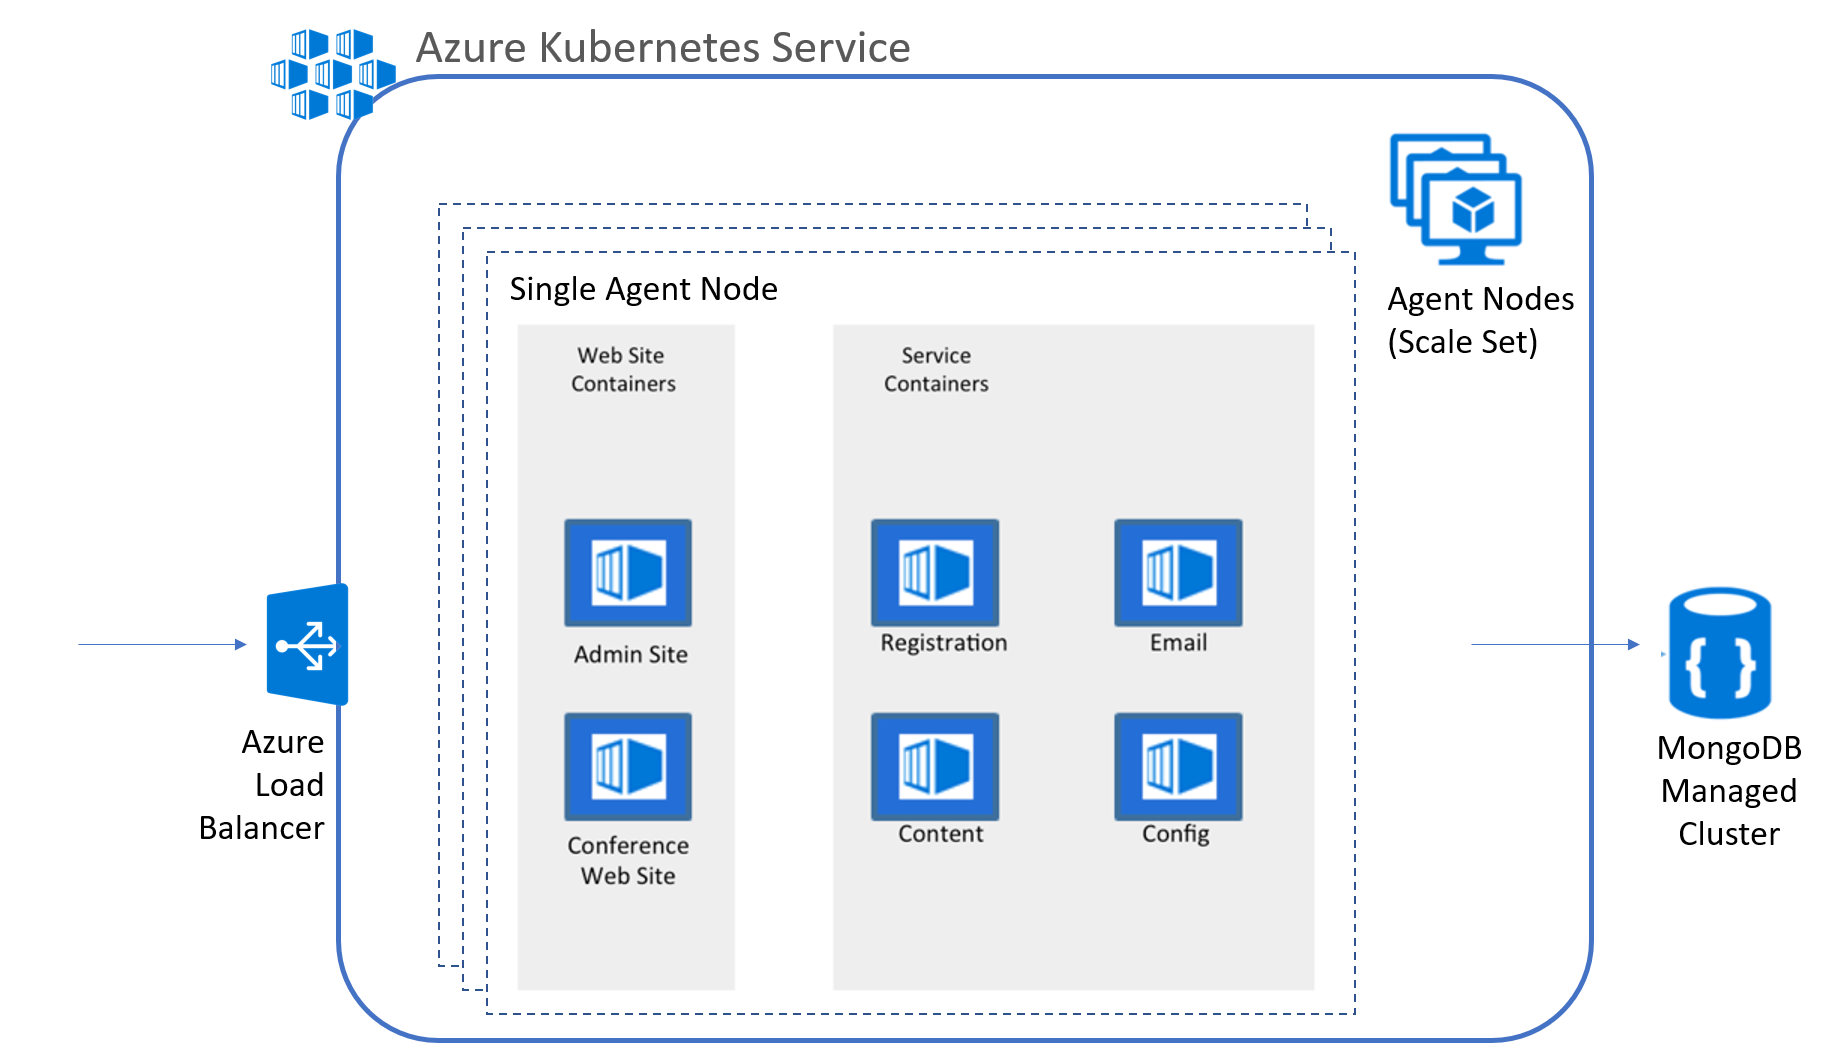
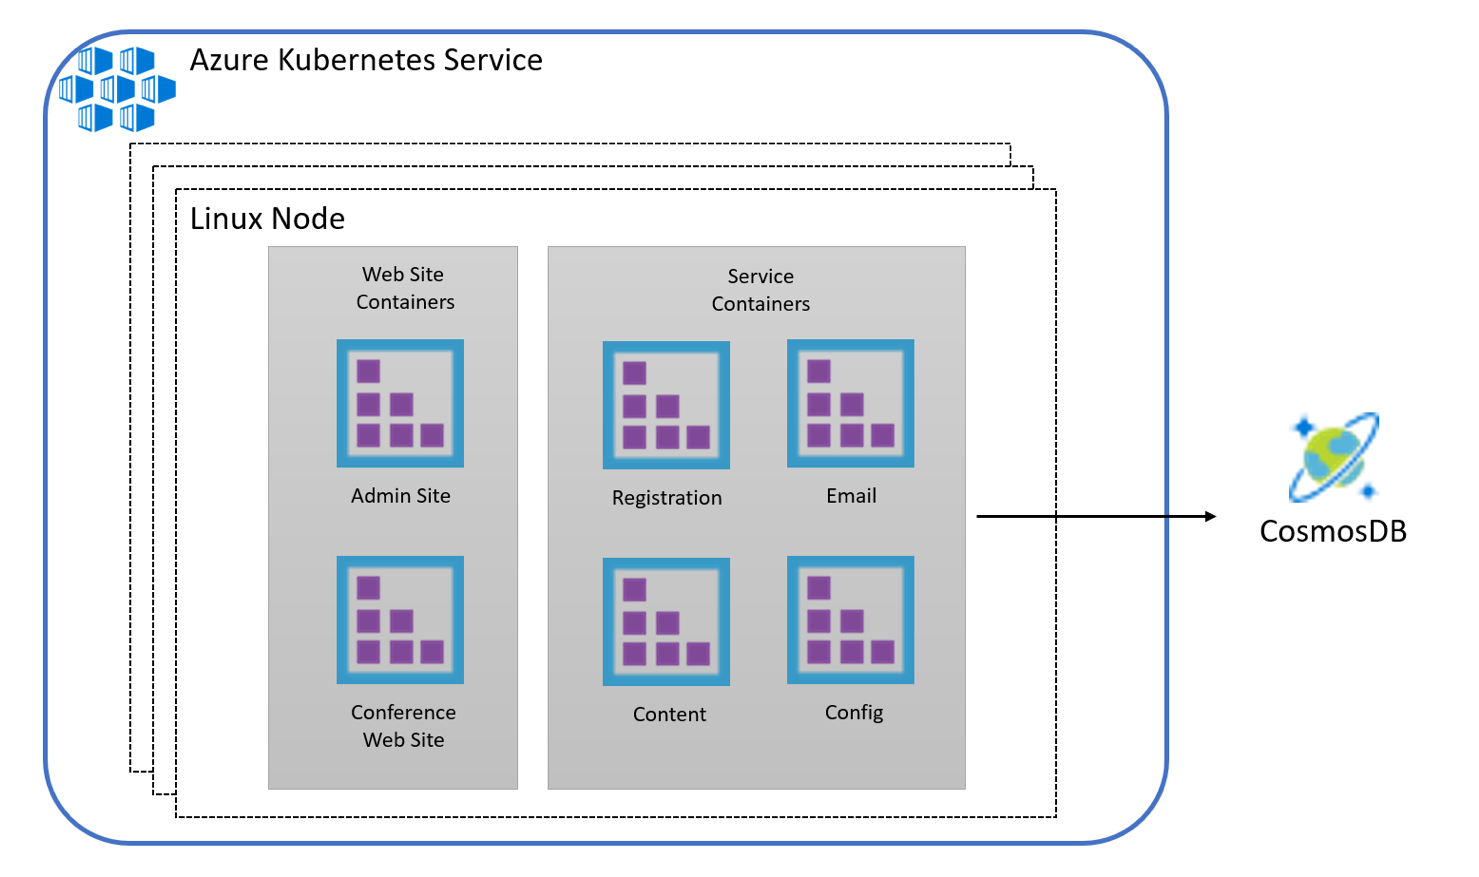
Update diagram

diff --git a/HOL/Hands-on lab step-by-step - Containers and DevOps.md b/HOL/Hands-on lab step-by-step - Containers and DevOps.md
@@ -81,7 +81,7 @@ In this hands-on lab, you will assist with completing this POC with a subset of 
 
 Below is a diagram of the solution architecture you will build in this lab. Please study this carefully, so you understand the whole of the solution as you are working on the various components.
 
-The solution will use Azure Kubernetes Service (AKS) which means that the container cluster topology is provisioned according to the number of requested nodes. The proposed containers deployed to the cluster are illustrated below, with MongoDB remaining as a managed service:
+The solution will use Azure Kubernetes Service (AKS) which means that the container cluster topology is provisioned according to the number of requested nodes. The proposed containers deployed to the cluster are illustrated below, with CosmosDb as a managed service:
 
 ![The solution will use Azure Kubernetes Service (AKS). The proposed containers deployed to the cluster are illustrated in this diagram, with MongoDB remaining as a managed service.](images/Hands-onlabstep-by-step-ContainersandDevOpsimages/media/image3.png)
 
